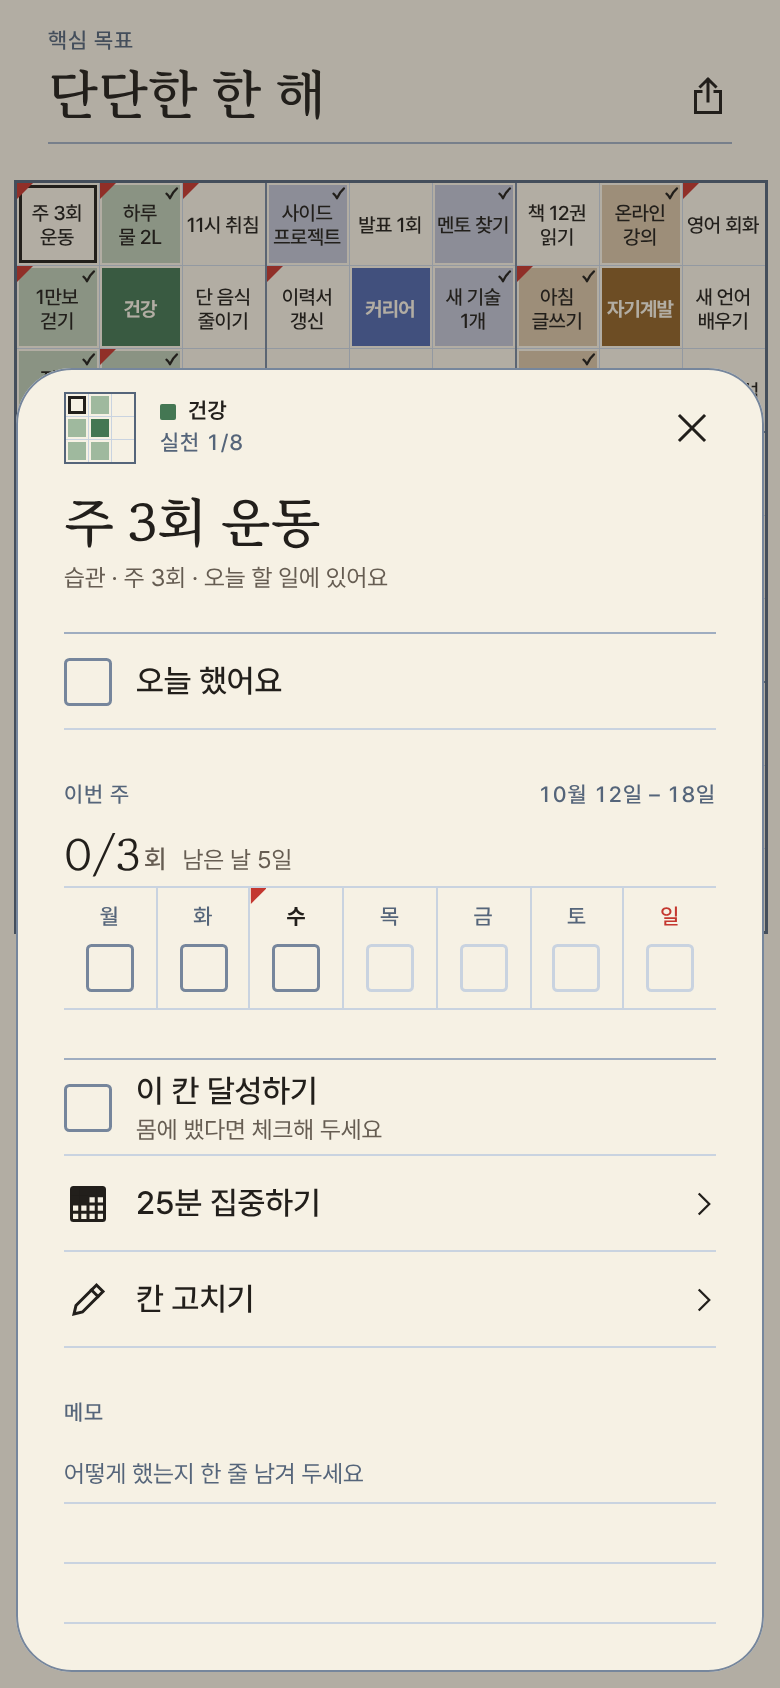
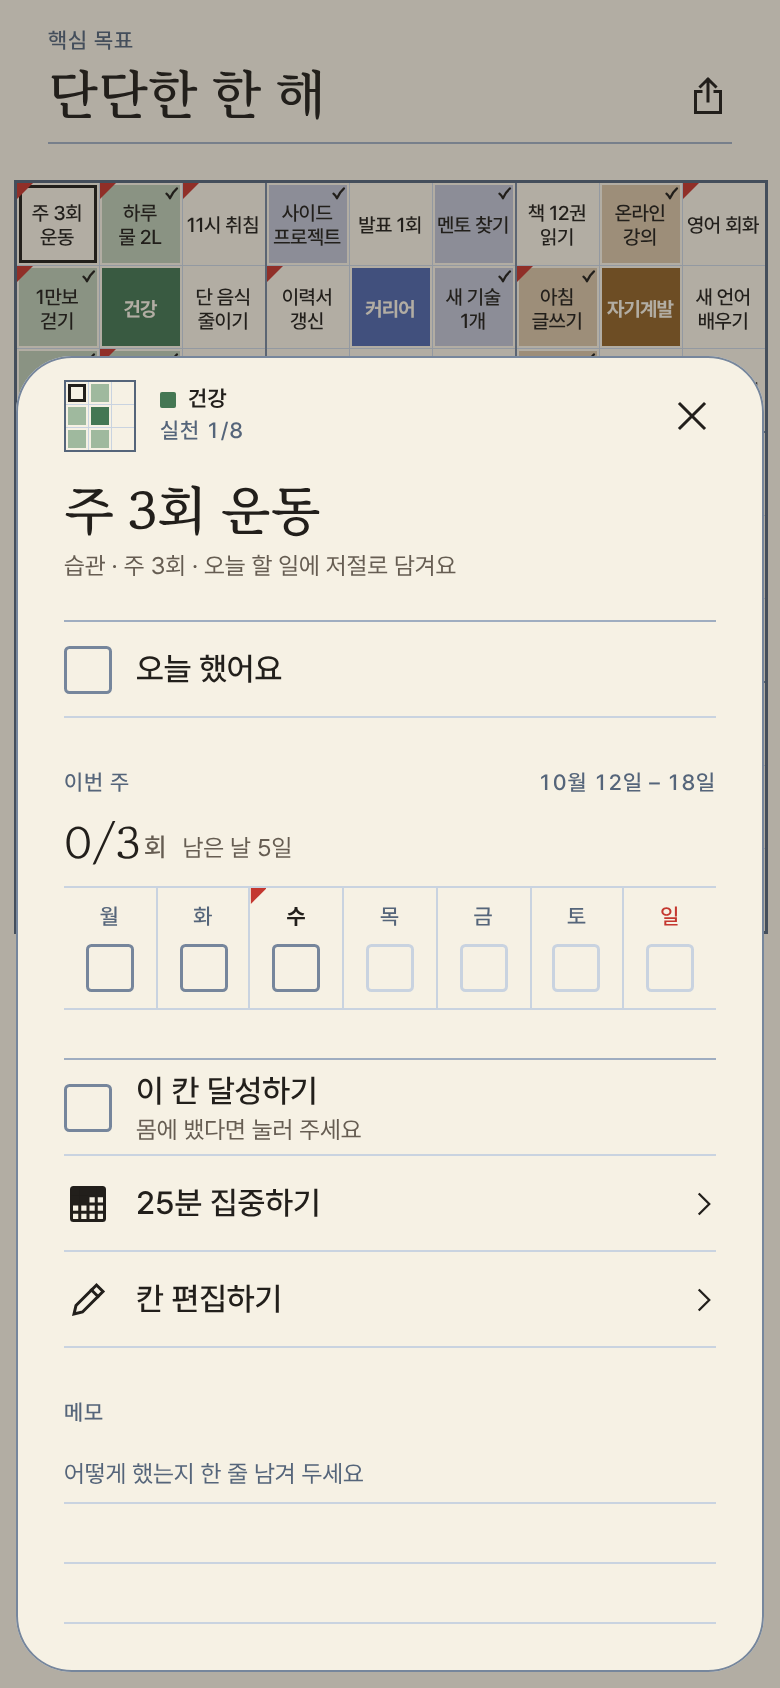
Design upgrade: direction A round 2 screens in progress
Claude-Session: https://claude.ai/code/session_016yGBuAcG4VRj4TxWfirsD3

diff --git a/docs/design/mockups/a/zz-editor-dark.html b/docs/design/mockups/a/zz-editor-dark.html
@@ -1,0 +1,88 @@
+<!doctype html>
+<html lang="ko">
+<head>
+<meta charset="utf-8">
+<meta name="mock:size" content="390x844"><meta name="mock:dark" content="1">
+<title>A · 칸 편집 · 11시 취침</title>
+<link rel="stylesheet" href="/tools/design-mockups/kit.css">
+<link rel="stylesheet" href="/tools/design-mockups/fonts.css">
+<link rel="stylesheet" href="/docs/design/mockups/a/tokens.css">
+<link rel="stylesheet" href="/docs/design/mockups/a/parts-sheets.css">
+<style>
+  /* 칸 편집. The zoomed 건강 block stays behind, dimmed, with the cell being edited framed in ink.
+     The sheet reads top to bottom as one form: the words, then what kind, then when, then a reminder.
+     Labels above, always. Three selection controls, one job each:
+       segment    유형, 반복         one of a few, inline
+       check box  요일               seven independent yes/no (chosen = ink tick, never the done wash)
+       choice row 알림               one of a list
+     The only colour is 건강's dye (the mark by its name, the head cell in the locator). */
+  #block { margin-top: 18px; }
+</style>
+</head>
+<body>
+<div class="a-page">
+  <div id="header"></div>
+  <div class="a-body"><div id="block"></div></div>
+  <div id="bar"></div>
+
+  <div class="a-scrim s-scrim"></div>
+  <div class="a-sheet s-sheet" id="sheet"></div>
+</div>
+<script src="/docs/design/mockups/a/shared.js"></script>
+<script src="/docs/design/mockups/a/parts-sheets.js"></script>
+<script>
+A.ready().then((doc) => {
+  const AREA = 0, INDEX = 2; // 건강 · 11시 취침
+  const area = doc.areas[AREA];
+  const act = area.actions[INDEX];
+
+  // behind: the block page, as block.html draws it, with this cell selected
+  A.header('#header', { back: '만다라트', title: area.title, written: true, figure: `${area.done}/${area.of}`, action: 'more' });
+  A.block('#block', doc, AREA, { cell: 112, focus: 2 });
+  A.tabBar('#bar', { active: 'chart' });
+
+  // act.days counts from Sunday (0 = 일): [0..4] = 일 월 화 수 목, the "월·화·수·목·일 반복" of Today
+  const order = ['월', '화', '수', '목', '금', '토', '일'];
+  const dayNo = { 일: 0, 월: 1, 화: 2, 수: 3, 목: 4, 금: 5, 토: 6 };
+  const chosen = new Set(act.days);
+  const days = order.map((d) => ({ d, s: chosen.has(dayNo[d]) ? 'chosen' : 'open' }));
+
+  document.querySelector('#sheet').innerHTML = `
+    ${S.head(doc, AREA, INDEX)}
+
+    <div class="s-field">
+      <div class="s-field-text">${act.text}</div>
+      <div class="s-field-line"></div>
+      <span class="t-label s-field-count">${[...act.text].length}/60</span>
+    </div>
+    <span class="t-note">무엇을, 얼마나, 언제·어디서를 쓰면 실천하기 쉬워요</span>
+
+    <section class="s-group">
+      <div class="a-section"><span class="t-label">유형</span></div>
+      ${S.segment(['한 번', '습관', '쌓기', '마음가짐'], '습관')}
+      <span class="t-note">정한 요일마다 ‘오늘’에 담겨요</span>
+    </section>
+
+    <section class="s-group">
+      <div class="a-section"><span class="t-label">반복</span><span class="s-quiets"><span class="s-quiet">매일</span><span class="s-quiet">평일</span><span class="s-quiet">주말</span></span></div>
+      ${S.segment(['요일마다', '횟수로'], '요일마다')}
+      <div style="height:12px"></div>
+      ${S.days(days)}
+    </section>
+
+    <section class="s-group">
+      <div class="a-section"><span class="t-label">알림</span></div>
+      <div class="a-list">
+        ${S.choice({ title: '없음' })}
+        ${S.choice({ title: '시각 정하기', meta: '오후 10:30 · 정한 요일마다', on: true })}
+      </div>
+    </section>
+
+    <div class="s-foot">
+      <span class="s-quiet">칸 비우기</span>
+      <div class="a-btn">저장</div>
+    </div>`;
+});
+</script>
+</body>
+</html>

diff --git a/docs/design/mockups/a/zz-sheet-dark.html b/docs/design/mockups/a/zz-sheet-dark.html
@@ -1,0 +1,79 @@
+<!doctype html>
+<html lang="ko">
+<head>
+<meta charset="utf-8">
+<meta name="mock:size" content="390x844"><meta name="mock:dark" content="1">
+<title>A · 실천 시트 · 주 3회 운동</title>
+<link rel="stylesheet" href="/tools/design-mockups/kit.css">
+<link rel="stylesheet" href="/tools/design-mockups/fonts.css">
+<link rel="stylesheet" href="/docs/design/mockups/a/tokens.css">
+<link rel="stylesheet" href="/docs/design/mockups/a/parts-sheets.css">
+<style>
+  /* 실천 시트: what you do with one cell. Opened from the sheet (tap a cell); the 9×9 stays behind,
+     dimmed, with the tapped cell framed in ink. Order (HL-16): the words, today's check, this week,
+     the cell's own completion, then two doors, then the memo. Every check sits in the leading
+     24pt column; nothing on the right but chevrons. */
+  .chart-wrap { display: flex; justify-content: center; margin-top: 18px; }
+  .s-title { margin-top: 6px; }
+  .s-title + .t-meta { display: block; }
+  .s-week-say { display: flex; align-items: baseline; gap: 8px; height: 30px; margin-bottom: 6px; }
+  .s-week-say .t-figure { font-size: 22px; line-height: 30px; }
+  .s-week-say .t-figure small { font-size: 13px; }
+</style>
+</head>
+<body>
+<div class="a-page">
+  <div id="header"></div>
+  <div class="chart-wrap"><div id="chart"></div></div>
+  <div id="bar"></div>
+
+  <div class="a-scrim s-scrim"></div>
+  <div class="a-sheet s-sheet" id="sheet"></div>
+</div>
+<script src="/docs/design/mockups/a/shared.js"></script>
+<script src="/docs/design/mockups/a/parts-sheets.js"></script>
+<script>
+A.ready().then((doc) => {
+  const AREA = 0, INDEX = 0; // 건강 · 주 3회 운동
+  const act = doc.areas[AREA].actions[INDEX];
+
+  // behind: the 만다라트 tab, the tapped cell framed in ink
+  A.header('#header', { eyebrow: '핵심 목표', title: doc.coreGoal, written: true, action: 'share' });
+  A.chart('#chart', doc, { level: 'L2', cell: 41, focus: [0, 0] });
+  A.tabBar('#bar', { active: 'chart' });
+
+  // this week (doc.view.today: "이번 주 0/3회", week "·· T ····"): Mon and Tue can still be ticked
+  // after the fact, today is open, the days to come are printed faint.
+  const days = doc.view.week.days.map(([d, , t]) => ({ d, today: t === 'today', s: t === 'today' || d === '월' || d === '화' ? 'open' : 'later' }));
+  const left = days.length - days.findIndex((x) => x.today);
+
+  document.querySelector('#sheet').innerHTML = `
+    ${S.head(doc, AREA, INDEX)}
+
+    <div class="t-title is-written s-title">${act.text}</div>
+    <span class="t-meta">습관 · 주 ${act.perWeek}회 · 오늘 할 일에 저절로 담겨요</span>
+
+    <div class="a-list" style="margin-top:18px">
+      ${A.row(doc, { text: '오늘 했어요' })}
+    </div>
+
+    <section class="s-group">
+      <div class="a-section"><span class="t-label">이번 주</span><span class="t-label">10월 12일 – 18일</span></div>
+      <div class="s-week-say"><span class="t-figure">0/${act.perWeek}<small>회</small></span><span class="t-meta">남은 날 ${left}일</span></div>
+      ${S.days(days)}
+    </section>
+
+    <div class="a-list" style="margin-top:24px">
+      ${A.row(doc, { text: '이 칸 달성하기', meta: '몸에 뱄다면 눌러 주세요' })}
+      ${S.linkRow({ icon: 'focus', title: '25분 집중하기' })}
+      ${S.linkRow({ icon: 'edit', title: '칸 편집하기' })}
+    </div>
+
+    <section class="s-group">
+      <div class="a-section"><span class="t-label">메모</span></div>
+      ${S.memo(3, '어떻게 했는지 한 줄 남겨 두세요')}
+    </section>`;
+});
+</script>
+</body>
+</html>

diff --git a/docs/design/mockups/a/sheet.html b/docs/design/mockups/a/sheet.html
@@ -16,7 +16,7 @@
   .chart-wrap { display: flex; justify-content: center; margin-top: 18px; }
   .s-title { margin-top: 6px; }
   .s-title + .t-meta { display: block; }
-  .s-week-say { display: flex; align-items: baseline; gap: 8px; height: 30px; }
+  .s-week-say { display: flex; align-items: baseline; gap: 8px; height: 30px; margin-bottom: 6px; }
   .s-week-say .t-figure { font-size: 22px; line-height: 30px; }
   .s-week-say .t-figure small { font-size: 13px; }
 </style>
@@ -51,7 +51,7 @@ A.ready().then((doc) => {
     ${S.head(doc, AREA, INDEX)}
 
     <div class="t-title is-written s-title">${act.text}</div>
-    <span class="t-meta">습관 · 주 ${act.perWeek}회 · 오늘 할 일에 있어요</span>
+    <span class="t-meta">습관 · 주 ${act.perWeek}회 · 오늘 할 일에 저절로 담겨요</span>
 
     <div class="a-list" style="margin-top:18px">
       ${A.row(doc, { text: '오늘 했어요' })}
@@ -64,9 +64,9 @@ A.ready().then((doc) => {
     </section>
 
     <div class="a-list" style="margin-top:24px">
-      ${A.row(doc, { text: '이 칸 달성하기', meta: '몸에 뱄다면 체크해 두세요' })}
+      ${A.row(doc, { text: '이 칸 달성하기', meta: '몸에 뱄다면 눌러 주세요' })}
       ${S.linkRow({ icon: 'focus', title: '25분 집중하기' })}
-      ${S.linkRow({ icon: 'edit', title: '칸 고치기' })}
+      ${S.linkRow({ icon: 'edit', title: '칸 편집하기' })}
     </div>
 
     <section class="s-group">
